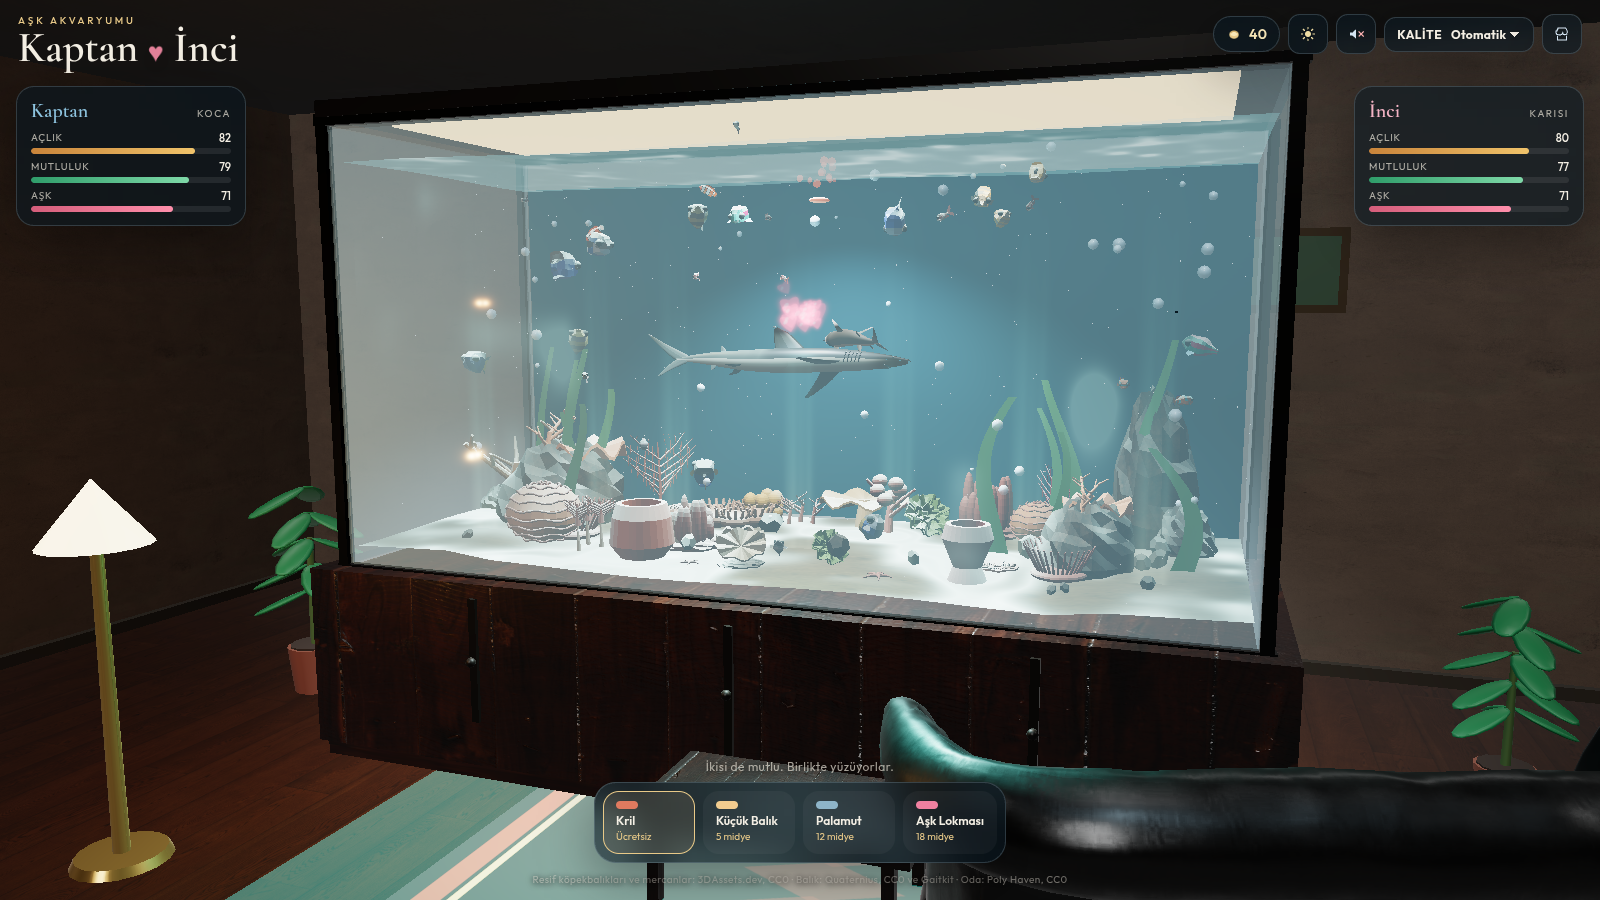
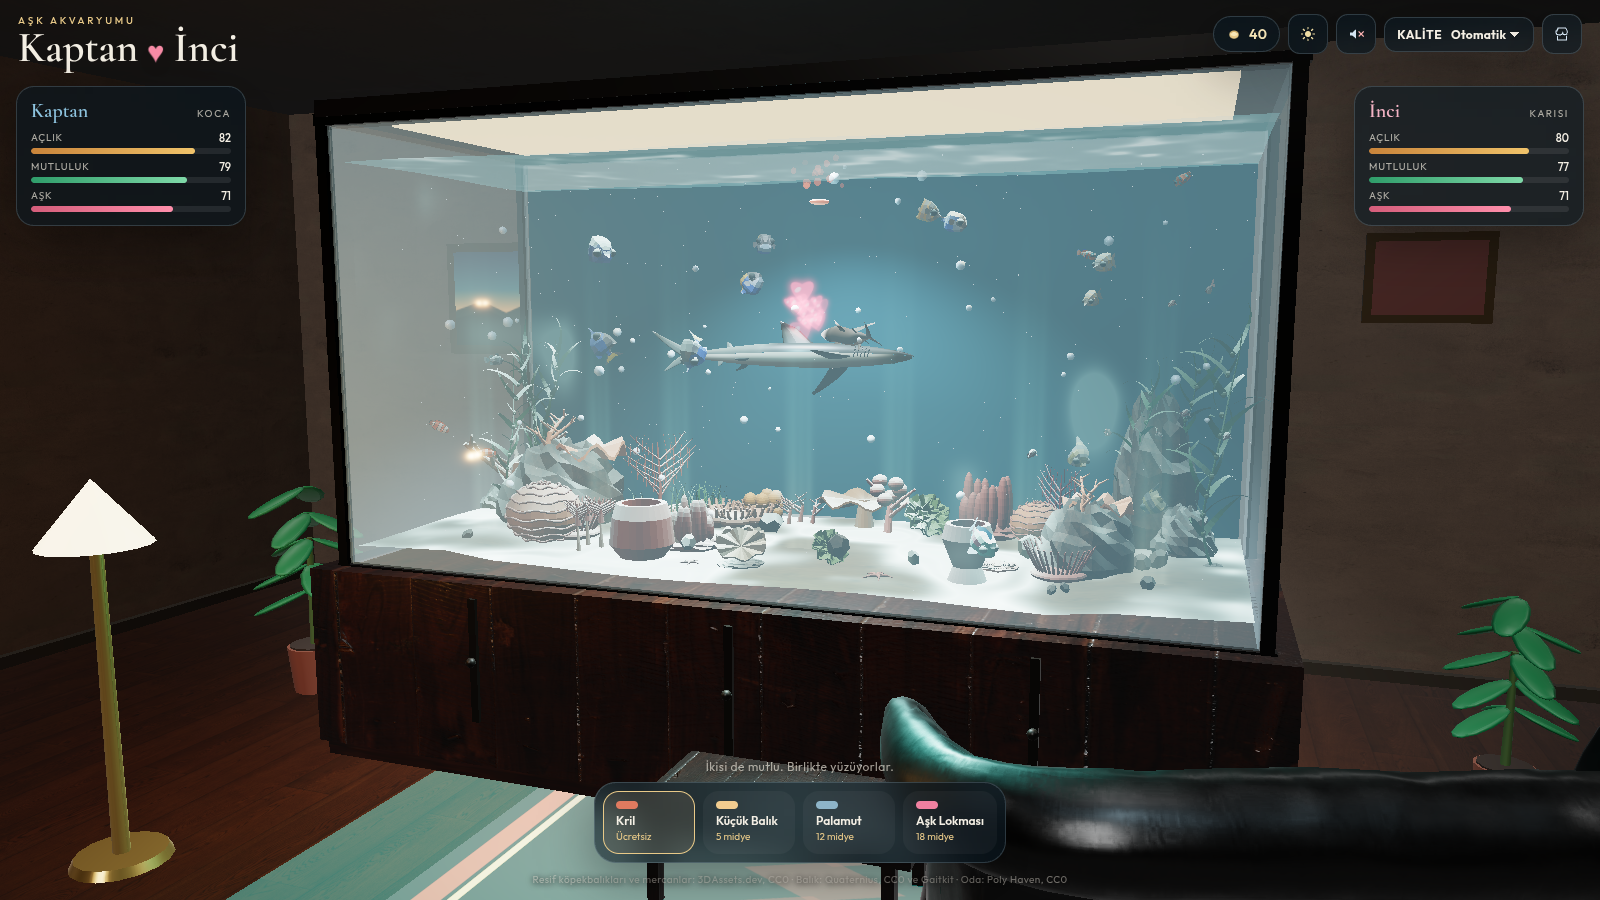
Mercan, yosun ve oda: doğal palet, gerçek kelp, görünür tablo
Orta kalitede de kelp/seagrass modelleri kullanılıyor, mercan renkleri
daha toprak tonlarında, kumda daha belirgin caustic; tankın solunda
okunaklı bir deniz manzarası tablosu var. Orta/llvmpipe temiz.

diff --git a/js/world.js b/js/world.js
@@ -362,9 +362,9 @@ export async function createWorld(canvas, quality, manager) {
 
   const load = texLoader(manager);
   const tex = {
-    sandDiff: load(quality.tex1k ? "./textures/coast_sand_01_diff_1k.jpg" : "./textures/coast_sand_01_diff_2k.jpg", true, 5.0),
-    sandNor: load(quality.tex1k ? "./textures/coast_sand_01_nor_gl_1k.jpg" : "./textures/coast_sand_01_nor_gl_2k.jpg", false, 5.0),
-    sandRough: load("./textures/coast_sand_01_rough_1k.jpg", false, 5.0),
+    sandDiff: load(quality.tex1k ? "./textures/coast_sand_01_diff_1k.jpg" : "./textures/coast_sand_01_diff_2k.jpg", true, 6.5),
+    sandNor: load(quality.tex1k ? "./textures/coast_sand_01_nor_gl_1k.jpg" : "./textures/coast_sand_01_nor_gl_2k.jpg", false, 6.5),
+    sandRough: load("./textures/coast_sand_01_rough_1k.jpg", false, 6.5),
     rockDiff: load("./textures/rock_face_03_diff_1k.jpg", true, 1.4),
     rockNor: load("./textures/rock_face_03_nor_gl_1k.jpg", false, 1.4),
     rockRough: load("./textures/rock_face_03_rough_1k.jpg", false, 1.4),
@@ -395,7 +395,7 @@ export async function createWorld(canvas, quality, manager) {
   root.add(cabinet);
 
   const sand = makeSand(tex, quality);
-  applyUnderwater(sand.material, uniforms);
+  applyUnderwater(sand.material, uniforms, { key: "sand", uniforms: { uCauGain: { value: 1.85 } } });
   root.add(sand);
 
   const interior = new THREE.Group();
@@ -948,20 +948,50 @@ function makeFrontGlassFresnel() {
 
 function makeFrames() {
   const g = new THREE.Group();
-  const wood = new THREE.MeshStandardMaterial({ color: 0x3a2a18, roughness: 0.45, metalness: 0.1 });
-  const arts = [0x1a3040, 0x4a2018, 0x2a3a28];
-  const xs = [-2.4, 0.0, 2.4];
-  arts.forEach((col, i) => {
-    const frame = new THREE.Mesh(new THREE.BoxGeometry(0.72, 0.52, 0.03), wood);
-    frame.position.set(xs[i], 1.55, ROOM.minZ + 0.02);
-    g.add(frame);
-    const art = new THREE.Mesh(
-      new THREE.PlaneGeometry(0.62, 0.42),
-      new THREE.MeshStandardMaterial({ color: col, roughness: 0.7, emissive: col, emissiveIntensity: 0.04 })
-    );
-    art.position.set(xs[i], 1.55, ROOM.minZ + 0.04);
-    g.add(art);
-  });
+  const wood = new THREE.MeshStandardMaterial({ color: 0x3a2a16, roughness: 0.4, metalness: 0.15 });
+  // painted seascape, large enough to read in the gap left of the tank
+  const c = document.createElement("canvas");
+  c.width = 640; c.height = 480;
+  const ctx = c.getContext("2d");
+  const grd = ctx.createLinearGradient(0, 0, 0, 480);
+  grd.addColorStop(0, "#1a3048");
+  grd.addColorStop(0.4, "#2a6870");
+  grd.addColorStop(0.62, "#d4a060");
+  grd.addColorStop(1, "#3a2014");
+  ctx.fillStyle = grd;
+  ctx.fillRect(0, 0, 640, 480);
+  ctx.fillStyle = "rgba(255,220,160,0.28)";
+  ctx.beginPath(); ctx.arc(470, 110, 78, 0, 6.28); ctx.fill();
+  ctx.fillStyle = "#1a2820";
+  ctx.beginPath();
+  ctx.moveTo(0, 300); ctx.lineTo(160, 250); ctx.lineTo(300, 310); ctx.lineTo(480, 240); ctx.lineTo(640, 300); ctx.lineTo(640, 480); ctx.lineTo(0, 480);
+  ctx.fill();
+  ctx.fillStyle = "#0e1814";
+  ctx.beginPath();
+  ctx.moveTo(0, 340); ctx.lineTo(200, 300); ctx.lineTo(340, 360); ctx.lineTo(640, 320); ctx.lineTo(640, 480); ctx.lineTo(0, 480);
+  ctx.fill();
+  const tex = new THREE.CanvasTexture(c);
+  tex.colorSpace = THREE.SRGBColorSpace;
+  const frame = new THREE.Mesh(new THREE.BoxGeometry(1.15, 0.88, 0.045), wood);
+  frame.position.set(-3.25, 1.38, ROOM.minZ + 0.03);
+  frame.castShadow = true;
+  g.add(frame);
+  const art = new THREE.Mesh(
+    new THREE.PlaneGeometry(1.02, 0.74),
+    new THREE.MeshStandardMaterial({ map: tex, roughness: 0.62, emissive: new THREE.Color(0x3a2a18), emissiveIntensity: 0.12 })
+  );
+  art.position.set(-3.25, 1.38, ROOM.minZ + 0.055);
+  g.add(art);
+  // smaller companion on the right back wall (mostly out of the wide shot)
+  const frame2 = new THREE.Mesh(new THREE.BoxGeometry(0.7, 0.54, 0.03), wood);
+  frame2.position.set(3.2, 1.5, ROOM.minZ + 0.03);
+  g.add(frame2);
+  const art2 = new THREE.Mesh(
+    new THREE.PlaneGeometry(0.6, 0.44),
+    new THREE.MeshStandardMaterial({ color: 0x4a2018, roughness: 0.7, emissive: new THREE.Color(0x2a100c), emissiveIntensity: 0.08 })
+  );
+  art2.position.set(3.2, 1.5, ROOM.minZ + 0.05);
+  g.add(art2);
   return g;
 }
 
@@ -1035,10 +1065,11 @@ function makeSand(tex, quality) {
     map: tex.sandDiff,
     normalMap: tex.sandNor,
     roughnessMap: tex.sandRough,
-    color: 0xd4bc8a,
+    color: 0xc4a872,
     roughness: 0.88,
     metalness: 0.0,
     envMapIntensity: 0.25,
+    normalScale: new THREE.Vector2(1.35, 1.35),
   });
   const mesh = new THREE.Mesh(geo, mat);
   mesh.rotation.x = -Math.PI / 2;

diff --git a/js/actors.js b/js/actors.js
@@ -485,13 +485,13 @@ function styleCoralMaterial(m, name, opts, quality) {
   const NATURAL = {
     brain: 0xc47a48,
     mushroom: 0xb06a4a,
-    table: 0xd8b07a,
-    lettuce: 0x6a8a3a,
-    bubble: 0xd4a048,
-    staghorn: 0xc49668,
-    elkhorn: 0xd0ae80,
-    pillar: 0xc48a58,
-    finger: 0xb87a50,
+    table: 0xa87848,
+    lettuce: 0x5a7a32,
+    bubble: 0xc48a38,
+    staghorn: 0xb07a52,
+    elkhorn: 0xb89860,
+    pillar: 0xb07a48,
+    finger: 0xa86a42,
     seafan: 0xa85a42,
     softbush: 0x8a6a38,
     carnation: 0xc25038,
@@ -583,16 +583,16 @@ export function createReefScenery(quality, uniforms) {
     ["pillar", 0.7, -1.7, -0.6, 0.0],
     ["finger", 0.4, 0.85, -0.58, 0.7],
     ["seafan", 0.55, -1.15, -0.62, 0.9, { sway: true }],
-    ["seafan", 0.42, 1.25, -0.6, -0.8, { sway: true, tint: 0xc07050 }],
+    ["seafan", 0.42, 1.25, -0.6, -0.8, { sway: true, tint: 0xa85838 }],
     ["softbush", 0.38, -0.2, -0.58, 0.4, { sway: true }],
     ["carnation", 0.32, 0.35, -0.48, 1.4, { sway: true }],
-    ["barrel_sponge", 0.32, -0.7, 0.48, 0.3, { tint: 0xc45a2a }],
-    ["vase_sponge", 0.26, 0.95, 0.42, 0.8, { tint: 0xd07040 }],
+    ["barrel_sponge", 0.32, -0.7, 0.48, 0.3, { tint: 0xb04a22 }],
+    ["vase_sponge", 0.26, 0.95, 0.42, 0.8, { tint: 0xa85028 }],
     ["clam", 0.28, -0.15, 0.5, 0.4],
     ["starfish", 0.16, 0.55, 0.52, 0.2],
     ["featherduster", 0.28, -1.05, 0.38, 0.6, { sway: true }],
     ["anemone", 0.42, -1.25, 0.22, 0.3, { sway: true }],
-    ["anemone", 0.34, 1.35, 0.28, -0.5, { sway: true, tint: 0xe8c4a0 }],
+    ["anemone", 0.34, 1.35, 0.28, -0.5, { sway: true, tint: 0xc49868 }],
     ["anemone_carpet", 0.5, -0.55, -0.4, 0.8, { sway: true }],
   ];
   for (const item of layout) {
@@ -651,13 +651,13 @@ export function createKelp(quality, uniforms) {
   const group = new THREE.Group();
   const n = quality.kelp;
   const rng = mulberry(11);
-  if (CACHE.coral.kelp && !quality.software) { // real kelp on GPU
-    const count = n;
+  if (CACHE.coral.kelp) {
+    const count = quality.software ? Math.min(n, 6) : n;
     for (let i = 0; i < count; i++) {
       const side = i % 2 === 0 ? -1 : 1;
       const x = side * (1.55 + rng() * 0.55);
       const z = -TANK.d / 2 + 0.22 + rng() * (TANK.d * 0.4);
-      const mesh = cloneCoral("kelp", 0.85 + rng() * 0.55, uniforms, { sway: true, phase: rng() * 6.28, tint: 0xb8d060 });
+      const mesh = cloneCoral("kelp", 0.85 + rng() * 0.55, uniforms, { sway: true, phase: rng() * 6.28, tint: 0x6a8a34 });
       place(group, mesh, x, z, rng() * Math.PI * 2);
     }
   } else {
@@ -689,12 +689,12 @@ export function createKelp(quality, uniforms) {
       group.add(mesh);
     }
   }
-  if (CACHE.coral.seagrass && !quality.software) {
-    const count = quality.mobile ? 4 : 8;
+  if (CACHE.coral.seagrass) {
+    const count = quality.software ? 5 : (quality.mobile ? 4 : 8);
     for (let i = 0; i < count; i++) {
       const x = (rng() - 0.5) * 3.6;
       const z = -TANK.d / 2 + 0.2 + rng() * 0.45;
-      const mesh = cloneCoral("seagrass", 0.28 + rng() * 0.18, uniforms, { sway: true, phase: rng() * 6.28, tint: 0x88c050 });
+      const mesh = cloneCoral("seagrass", 0.28 + rng() * 0.18, uniforms, { sway: true, phase: rng() * 6.28, tint: 0x5a8a38 });
       place(group, mesh, x, z, rng() * 6.28);
     }
   }

diff --git a/index.html b/index.html
@@ -138,6 +138,6 @@
       </form>
     </div>
   </div>
-  <script type="module" src="js/main.js?v=20261121w"></script>
+  <script type="module" src="js/main.js?v=20261121x"></script>
 </body>
 </html>
